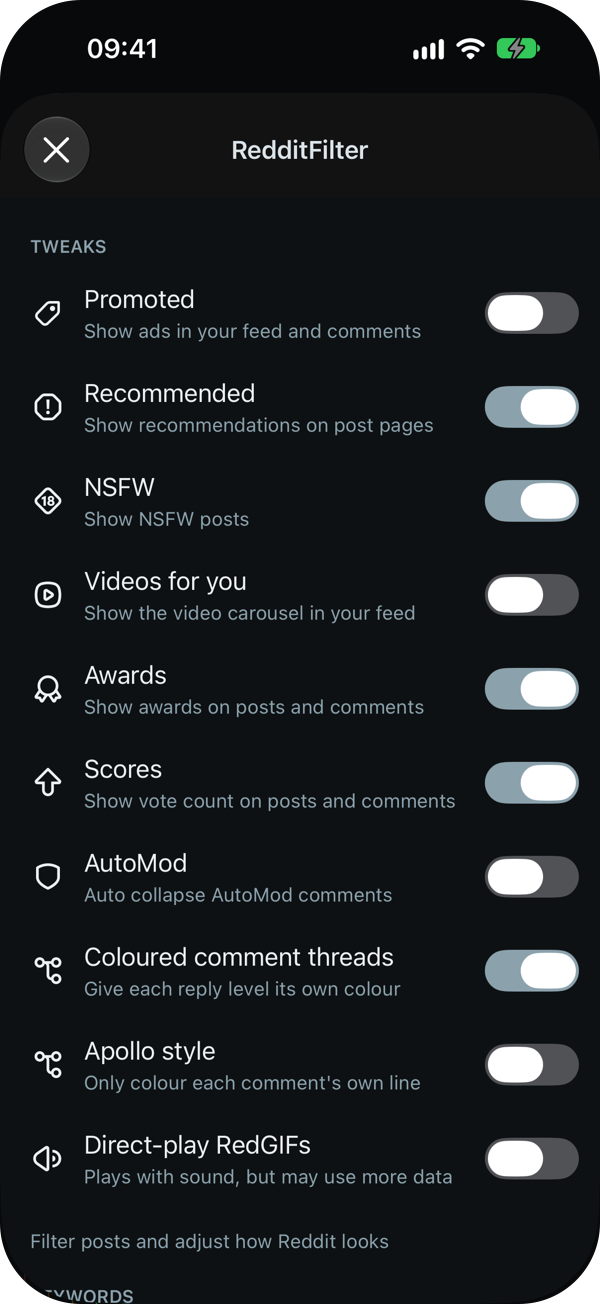
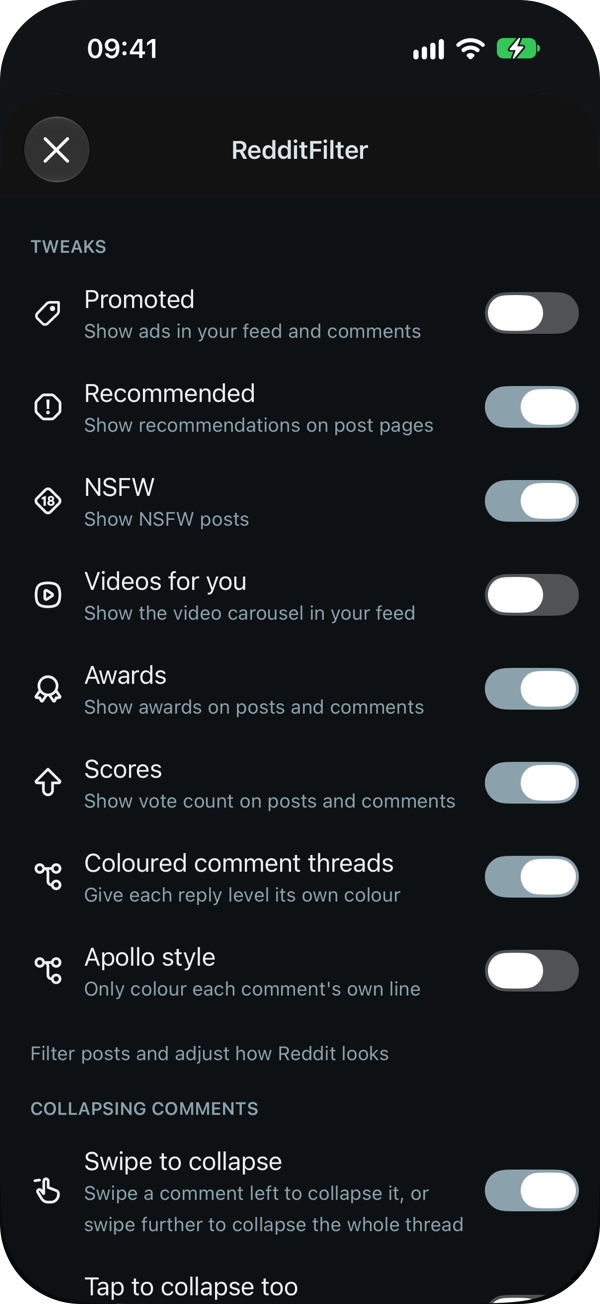
Update README screenshots for 1.3.3

diff --git a/README.md b/README.md
@@ -1,23 +1,39 @@
 # RedditFilter
 
-Filters unwanted content from the Reddit app: promoted posts, recommendations, NSFW posts, awards, scores, and posts or comments that mention your keywords. It can also play RedGIFs videos with sound.
+Filters unwanted content from the Reddit app: promoted posts, recommendations, NSFW posts, awards, scores, and posts or comments that mention your keywords. It can also play RedGIFs videos with sound, collapse comments with a swipe and open Reddit links from Safari in the app.
 
 <table>
   <tr>
     <th colspan="2">Coloured comment threads</th>
-    <th colspan="2">Settings</th>
+    <th colspan="2">Swipe to collapse</th>
   </tr>
   <tr>
     <td align="center" width="25%"><img src="screenshots/threads.png" width="200" alt="Coloured comment threads: each reply level has its own colour, with the lines of parent comments faded"></td>
     <td align="center" width="25%"><img src="screenshots/apollo.png" width="200" alt="Apollo style: only each comment's own line is coloured"></td>
-    <td align="center" width="25%"><img src="screenshots/settings.png" width="200" alt="RedditFilter settings: the Tweaks section"></td>
-    <td align="center" width="25%"><img src="screenshots/settings2.png" width="200" alt="RedditFilter settings: Keywords and About"></td>
+    <td align="center" width="25%"><img src="screenshots/swipe.png" width="200" alt="A reply swiped left, showing Collapse behind it"></td>
+    <td align="center" width="25%"><img src="screenshots/swipe-thread.png" width="200" alt="A reply swiped further left, showing Collapse thread behind it"></td>
   </tr>
   <tr>
     <td align="center"><b>Default</b><br><sub>Parent lines faded</sub></td>
     <td align="center"><b>Apollo style</b><br><sub>Only each comment's own line</sub></td>
+    <td align="center"><b>Swipe left</b><br><sub>Collapses the comment and its replies</sub></td>
+    <td align="center"><b>Swipe further</b><br><sub>Collapses the whole thread</sub></td>
+  </tr>
+  <tr>
+    <th colspan="3">Settings</th>
+    <th>Safari</th>
+  </tr>
+  <tr>
+    <td align="center" width="25%"><img src="screenshots/settings.png" width="200" alt="RedditFilter settings: the Tweaks section"></td>
+    <td align="center" width="25%"><img src="screenshots/settings2.png" width="200" alt="RedditFilter settings: Collapsing comments and RedGIFs"></td>
+    <td align="center" width="25%"><img src="screenshots/settings3.png" width="200" alt="RedditFilter settings: Keywords, Safari and About"></td>
+    <td align="center" width="25%"><img src="screenshots/safari.png" width="200" alt="Steps to turn on the RedditFilter Safari extension"></td>
+  </tr>
+  <tr>
     <td align="center"><b>Tweaks</b><br><sub>Show or hide each kind of content</sub></td>
-    <td align="center"><b>Keywords and About</b><br><sub>Keyword filters and update check</sub></td>
+    <td align="center"><b>Collapsing and RedGIFs</b><br><sub>Swipe or tap, and video quality</sub></td>
+    <td align="center"><b>Keywords and About</b><br><sub>Keyword filters, Safari and update check</sub></td>
+    <td align="center"><b>Open Reddit links here</b><br><sub>Set up the Safari extension</sub></td>
   </tr>
 </table>
 
